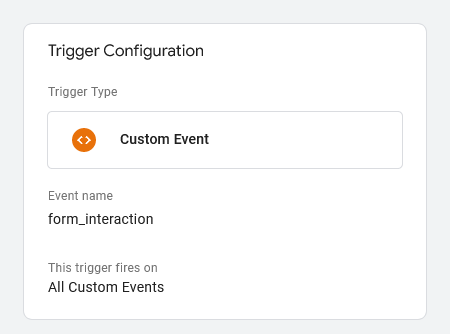
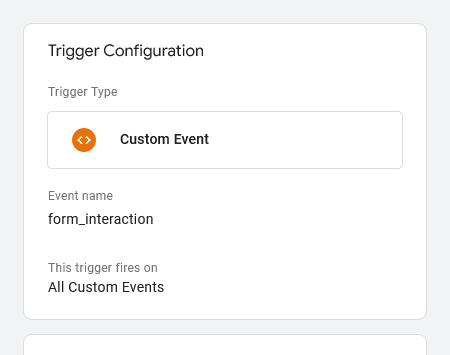
Update images

diff --git a/README.md b/README.md
@@ -29,7 +29,7 @@ dataLayer.push({
 
 3 - Also under Triggers, create a Page View DOM Ready trigger that fires on the relevant Page Path or other filter.
 
-<img src="images/GTM-Trigger-DOM.png" width="700" /><br />
+<img src="images/GTM-Trigger-DOM.png" width="328" /><br />
 
 4 - Under Tags, create a Google Analytics GA4 Event that links GA4 Event Parameters to Data Layer values. For example, the GA4 parameter `event_category` is matched to the value `{{eventCategory}}`. Set Triggering to the trigger created in step 2.
 
